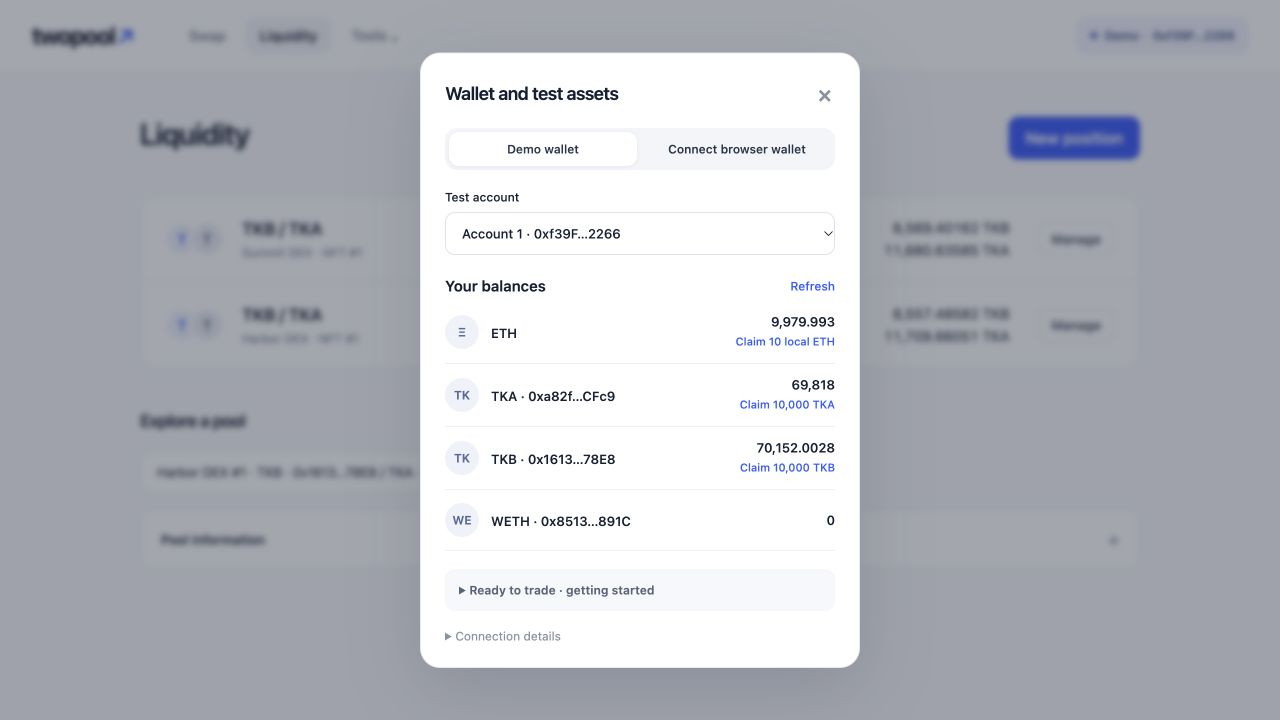
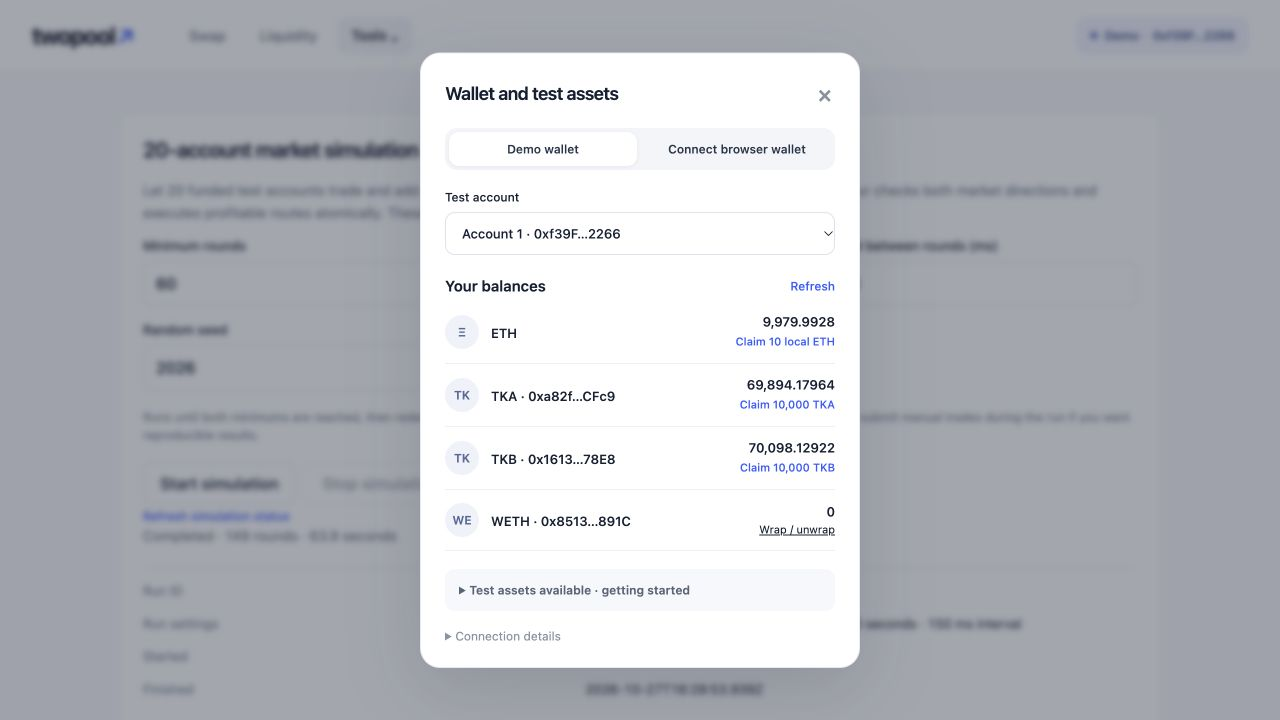
docs(workflows): document funded assets and sustained simulation

diff --git a/frontend/acceptance/README.md b/frontend/acceptance/README.md
@@ -235,3 +235,26 @@ and fixture compiler output stay in that directory. The runner stops its own
 node and wallet controller and does not use the browser or development services.
 This accepts the public transaction-result boundary, not React rendering,
 wallet-provider honesty, compiler correctness or EVM semantics.
+
+## Asset preparation and pool creation
+
+After building the frontend kernel and contract artifacts:
+
+```sh
+contracts/node_modules/.bin/tsx frontend/acceptance/asset-setup-public.mts
+```
+
+One isolated ledger exercises the public wallet/writer interfaces from an
+unfunded account through ETH and ERC20 funding, a new eighteen-decimal test
+token with zero initial supply, token import, and an empty pool on the selected
+DEX. Deployment receipts, on-chain metadata, account balances and actual pool
+records provide the evidence. The administrative ETH faucet may mine an empty
+block; it must not invent a wallet transaction or change another account.
+
+Real wrapping and unwrapping are checked using transaction value and calldata,
+successful receipts, ERC20 mint/burn Transfer logs and native/token balances.
+Wrapping the entire ETH balance and unwrapping with no ETH for gas must reject
+before sending: the public wallet error and pending state, nonce and balances
+are observed independently. No second gas-budget model supplies the oracle.
+Evidence and source fingerprints remain under `.local/asset-setup-public-*/`;
+the runner does not use the browser or development services.
